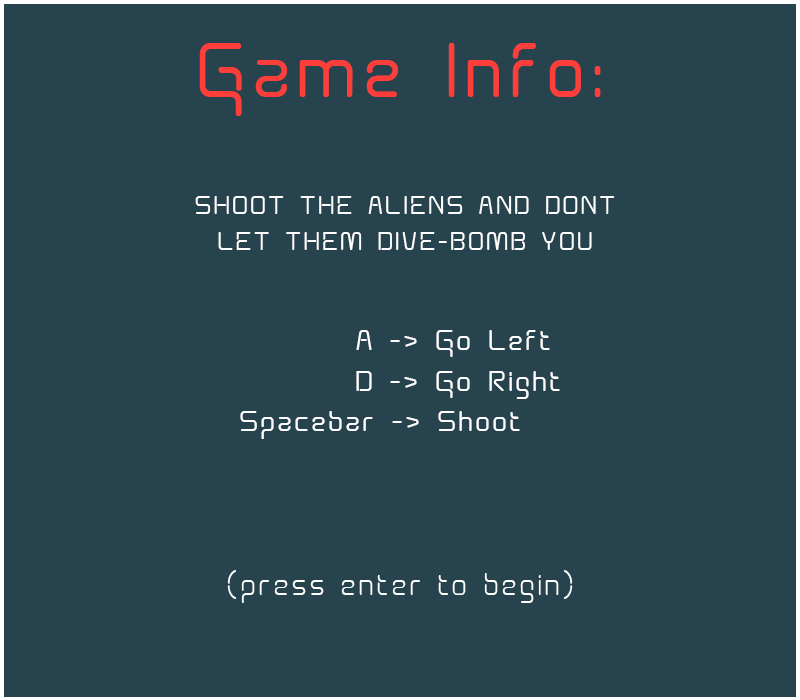
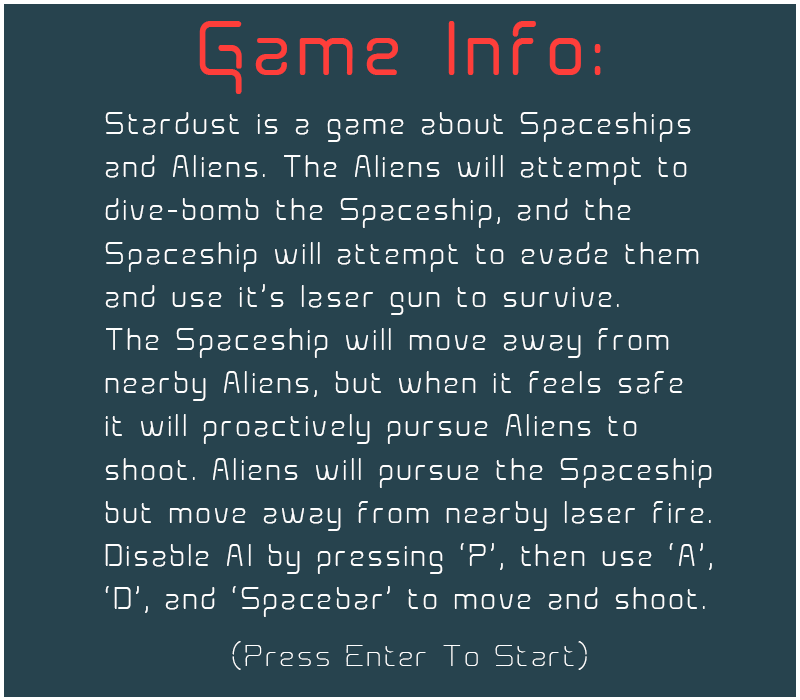
balanced movement and tracking, added AI

diff --git a/entities.js b/entities.js
@@ -48,8 +48,10 @@ Background.prototype.draw = function (ctx) {
 function Ship(game) {
     this.type = 'ship';
     this.animation = new Animation(ASSET_MANAGER.getAsset("./images/ship.png"), 0, 0, 10, 10, 1, 1, true, false);
-    this.speed = 1;
+    this.speed = 8/7;
+    this.playerControls = false;
     this.leftGun = true;
+    this.shoottimer = 0;
     Entity.call(this, game, 35, 55);
     this.colliderCircle = {radius: 5, x: this.x + 5, y: this.y + 5};
 }
@@ -58,26 +60,76 @@ Ship.prototype = new Entity();
 Ship.prototype.constructor = Ship;
 
 Ship.prototype.update = function () {
+    if(this.game.p) { this.playerControls = true; }
     this.colliderCircle = {radius: 5, x: this.x + 5, y: this.y + 5};
-    if(this.game.space) {
-        this.game.addEntity(new Laser(this.game, this.x + 4.5, this.y));
-    }
-    if(this.x > 0 && this.game.a) {
-        this.x -= this.speed;
-    }
-    if(this.x < 70 && this.game.d) {
-        this.x += this.speed;
-    }
+
+    if(this.playerControls) {
+        if(this.game.space) {
+            this.game.addEntity(new Laser(this.game, this.x + 4.5, this.y));
+        }
+        if(this.x > 0 && this.game.a) {
+            this.x -= this.speed;
+        }
+        if(this.x < 70 && this.game.d) {
+            this.x += this.speed;
+        }
+    } else {//AI controls -------------------
+
+        if(this.shoottimer++ > 15) { //shoot constantly
+            this.game.addEntity(new Laser(this.game, this.x + 4.5, this.y));
+            this.shoottimer = 0;
+        }
+        var nearest = this.findNearest();
+        if(nearest != null) {
+            if (nearest.y < this.y - 35) {
+                if (nearest.colliderCircle.x < this.colliderCircle.x + 3 && 
+                    nearest.colliderCircle.x > this.colliderCircle.x - 3) {
+                } else if (nearest.colliderCircle.x > this.colliderCircle.x) {
+                    if(this.x < 70) this.x += this.speed;
+                } else if (nearest.colliderCircle.x < this.colliderCircle.x) {
+                    if(this.x > 0) this.x -= this.speed;
+                }
+            } else {
+                if (nearest.colliderCircle.x > this.colliderCircle.x && 
+                        nearest.colliderCircle.x < this.colliderCircle.x + 15) {
+                    if(this.x > 0) this.x -= this.speed;
+                } else if (nearest.colliderCircle.x < this.colliderCircle.x &&
+                        nearest.colliderCircle.x > this.colliderCircle.x - 15) {
+                    if(this.x < 70) this.x += this.speed;
+                } else if (this.colliderCircle.x > 65) {
+                    this.x -= this.speed;
+                } else if (this.colliderCircle.x < 15) {
+                    this.x += this.speed;
+                }
+            }
+        }
+    } //END AI -----------------------------
 }
 
 Ship.prototype.draw = function (ctx) {
     this.animation.drawStatic(ctx, this.x, this.y);
 }
 
+Ship.prototype.findNearest = function() {
+    var nearest;
+    var that = this;
+    this.game.entities.forEach(function(e) {
+        if(e.type === 'alien') {
+            if(nearest == null) {
+                nearest = e;
+            } else if(distance(that, e) < nearest) {
+                nearest = e;
+            }
+        }
+    })
+    return nearest;
+}
+
 /////////////////////////////////////////////////////////////////////////////////////////
 
 function Laser(game, posx, posy) {
     this.type = 'laser';
+    this.speed = 2;
     this.animation = new Animation(ASSET_MANAGER.getAsset("./images/laser.png"), 0, 0, 1, 4, 1, 1, true, false);
     Entity.call(this, game, posx, posy);
     this.colliderCircle = {radius: 1, x: this.x + 0.5, y: this.y + 1}
@@ -90,7 +142,7 @@ Laser.prototype.update = function () {
     if(this.y < 0) {
         this.removeFromWorld = true;
     }
-    this.y--;
+    this.y-= this.speed;
     this.colliderCircle = {radius: 1, x: this.x + 0.5, y: this.y + 1};
     var that = this;
     this.game.entities.forEach(function(e) {
@@ -112,7 +164,7 @@ Laser.prototype.draw = function (ctx) {
 function Alien(game, posx, posy) {
     this.type = 'alien';
     this.attacktimer = 0;
-    this.attackdelay = 50 + Math.random() * 100;
+    this.attackdelay = 10 + Math.random() * 100;
     this.animation = new Animation(ASSET_MANAGER.getAsset("./images/alien.png"), 0, 0, 15, 14, 1, 1, true, false);
     Entity.call(this, game, posx, posy);
     this.colliderCircle = {radius: 2.5, x: this.x + 3.5, y: this.y + 2};
@@ -122,6 +174,7 @@ Alien.prototype = new Entity();
 Alien.prototype.constructor = Alien;
 
 Alien.prototype.update = function () {
+    this.colliderCircle = {radius: 2.5, x: this.x + 3.5, y: this.y + 2};
     if(this.y > 80) {
         this.removeFromWorld = true;
     }
@@ -132,8 +185,28 @@ Alien.prototype.update = function () {
         if(detectCollision(this.colliderCircle, this.game.entities[1].colliderCircle)) {
             location.reload();
         }
+
+        var nearest = this.findNearest(); //AI Controls---------------------
+        if(nearest != null) {
+            if(nearest.colliderCircle.x < this.x && nearest.colliderCircle.x > this.x-4) {
+                this.x++;
+            } else if(nearest.colliderCircle.x > this.x && nearest.colliderCircle.x < this.x+4) {
+                this.x--;
+            } else {
+                if(this.game.entities[1].colliderCircle.x < this.x) {
+                    this.x--;
+                } else if(this.game.entities[1].colliderCircle.x > this.x) {
+                    this.x++;
+                }
+            }
+        } else {
+            if(this.game.entities[1].colliderCircle.x < this.x) {
+                this.x--;
+            } else if(this.game.entities[1].colliderCircle.x > this.x) {
+                this.x++;
+            }
+        } //End AI -------------------------
     }
-    this.colliderCircle = {radius: 2.5, x: this.x + 3.5, y: this.y + 2};
 }
 
 Alien.prototype.draw = function (ctx) {
@@ -144,12 +217,27 @@ Alien.prototype.draw = function (ctx) {
     ctx.restore();
 }
 
+Alien.prototype.findNearest = function() {
+    var nearest;
+    var that = this;
+    this.game.entities.forEach(function(e) {
+        if(e.type === 'laser') {
+            if(nearest == null) {
+                nearest = e;
+            } else if(distance(that, e) < nearest) {
+                nearest = e;
+            }
+        }
+    })
+    return nearest;
+}
+
 /////////////////////////////////////////////////////////////////////////////////////////
 
 function Mothership(game) {
     this.type = 'mothership';
     this.spawntimer = 0;
-    this.spawnthreshold = 30;
+    this.spawnthreshold = 45;
     Entity.call(this, game, 0, 0);
 }
 

diff --git a/main.js b/main.js
@@ -20,7 +20,7 @@ ASSET_MANAGER.downloadAll(function () {
     gameEngine.addEntity(card);
 
     var titleGone = false;
-    ctx.canvas.addEventListener("keypress", function (e) {
+    function enterListener(e) {
         if (e.code === "Enter") {
             if(!titleGone) {
                 card.removeFromWorld = true;
@@ -37,9 +37,11 @@ ASSET_MANAGER.downloadAll(function () {
                 gameEngine.addEntity(bg);
                 gameEngine.addEntity(ship);
                 gameEngine.addEntity(mothership, ship);
+                ctx.canvas.removeEventListener("keypress", enterListener);
             }
         }
-    }, false);
+    }
+    ctx.canvas.addEventListener("keypress", enterListener, false);
 
     gameEngine.init(ctx);
     gameEngine.start();
@@ -54,4 +56,10 @@ function detectCollision(colliderCircle1, colliderCircle2) {
         collisionDetected = true;
     }
     return collisionDetected;
+}
+
+function distance(e1, e2) {
+    var dx = (e1.colliderCircle.x - e2.colliderCircle.x);
+    var dy = (e1.colliderCircle.y - e2.colliderCircle.y);
+    return Math.sqrt(dx * dx + dy * dy);
 }

diff --git a/gameengine.js b/gameengine.js
@@ -84,6 +84,10 @@ GameEngine.prototype.startInput = function () {
     this.ctx.canvas.addEventListener("keyup", function (e) {
         if (e.code === "KeyD") that.d = false;
     }, false);
+
+    this.ctx.canvas.addEventListener("keydown", function (e) {
+        if (e.code === "KeyP") that.p = true;
+    }, false);
 	
     console.log('Input started');
 }

diff --git a/index.html b/index.html
@@ -3,7 +3,6 @@
 <head>
     <meta charset="utf-8">
     <title>Stardust</title>
-    <link rel="stylesheet" href="assets/css/main.css" />
     <script type="text/javascript" src="./gameengine.js"></script>
     <script type="text/javascript" src="./assetmanager.js"></script>
     <script type="text/javascript" src="./animation.js"></script>
